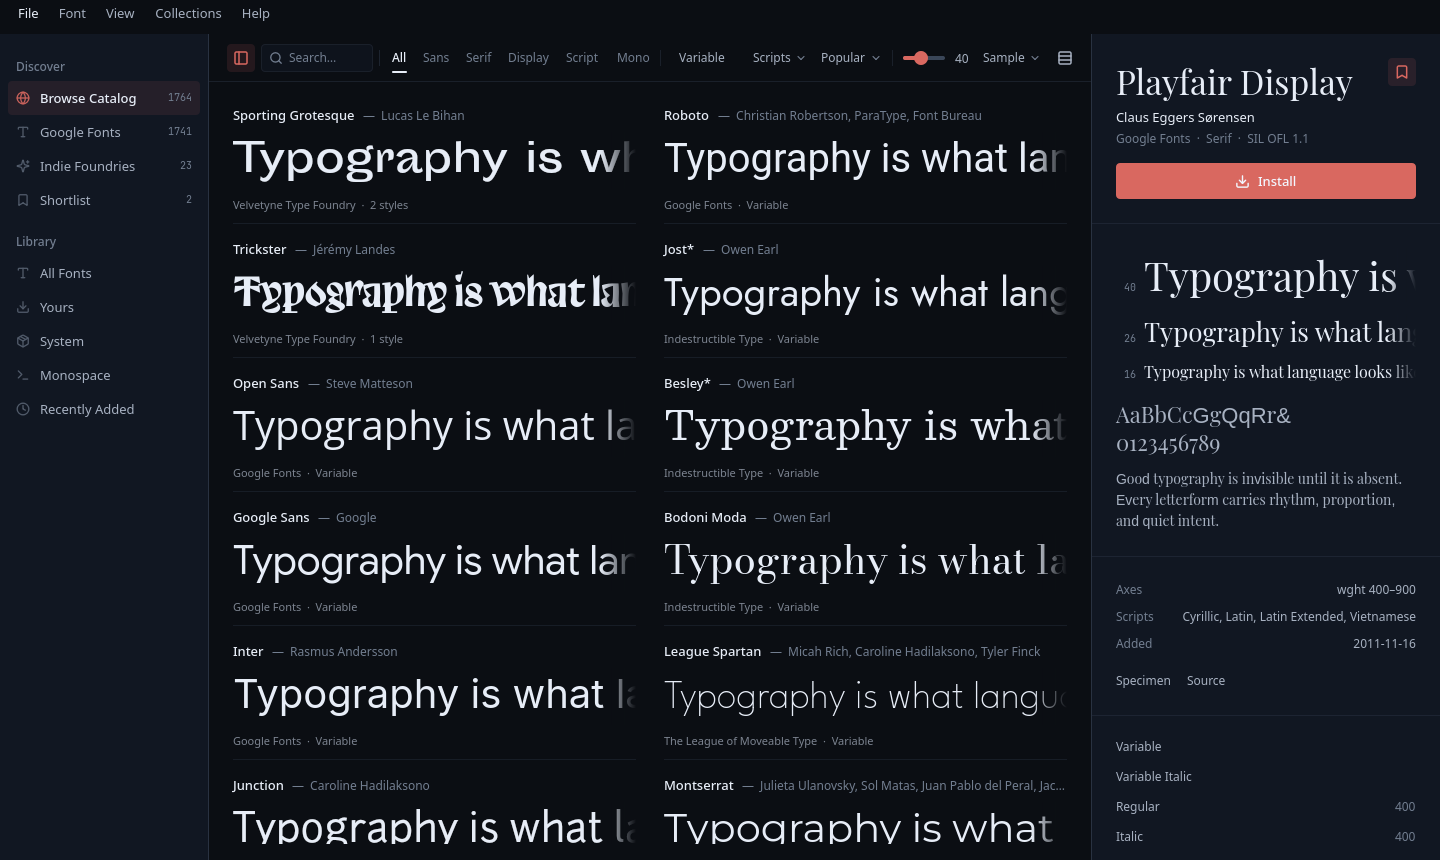
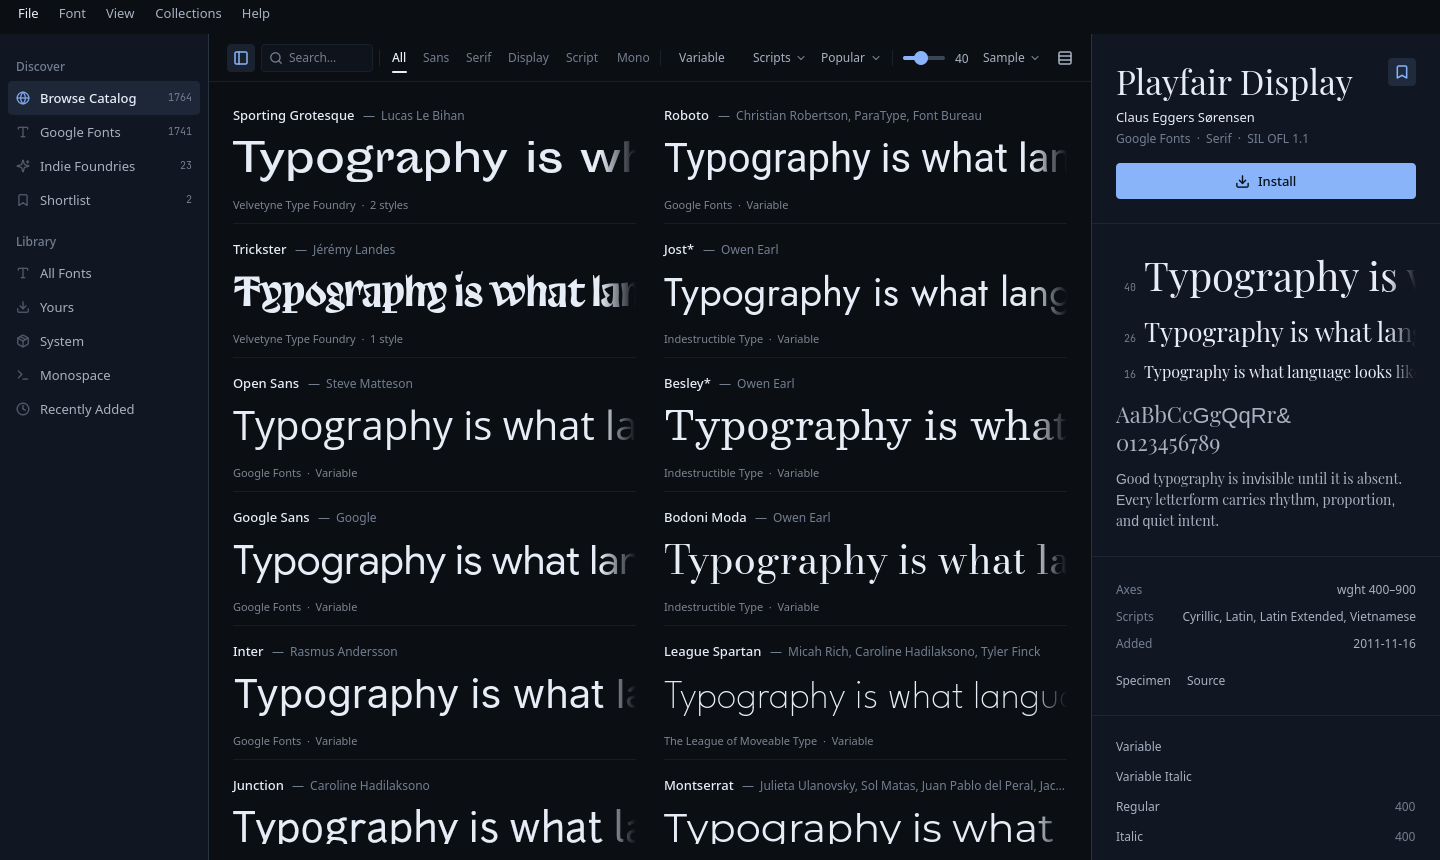
Move attribution to bottom of README and capture Catppuccin screenshot

Changed region(s): [[0.75, 0.1814, 1.0, 0.2419], [0.625, 0.0605, 0.6562, 0.0907], [0.0, 0.0907, 0.0312, 0.1209]]

diff --git a/tests/omatype_tests.cpp b/tests/omatype_tests.cpp
@@ -151,6 +151,8 @@ private slots:
             catalog.toggleShortlist(QStringLiteral("playfair-display"));
             if (auto *win = qobject_cast<QQuickWindow *>(engine.rootObjects().first())) {
                 if (win->activeFocusItem()) win->activeFocusItem()->setFocus(false);
+                // Move virtual pointer off (0,0) so the File menu isn't hovered in captures.
+                QTest::mouseMove(win, QPoint(720, 430));
                 // Give all visible cards (Google + indie foundries) time to finish loading.
                 QTest::qWait(5000);
                 win->grabWindow().save(shotPath);

diff --git a/src/theme.cpp b/src/theme.cpp
@@ -24,6 +24,8 @@ const QString kLightSelection = QStringLiteral("#2077b2");
 const QString kDefaultAccent = QStringLiteral("#5584aa");
 
 QString currentDir() {
+    const QString overrideDir = qEnvironmentVariable("OMATYPE_THEME_DIR");
+    if (!overrideDir.isEmpty()) return overrideDir;
     return QDir::homePath() + QStringLiteral("/.local/state/omarchy/current");
 }
 

diff --git a/README.md b/README.md
@@ -2,8 +2,6 @@
 
 An open-source font browser and manager for Omarchy — bringing an Adobe Fonts-style discovery and one-click installation workflow to Linux design tools like FigCraft and ArtCraft.
 
-> **Attribution:** Omatype is forked from [OmaFont](https://github.com/28allday/omafont-app), originally created by **Gavin Nugent** under the MIT License. All original copyright notices and attribution are preserved in [LICENSE](LICENSE).
-
 Browse open-source type catalogs (Google Fonts and curated open-source foundries) with live previews, designer attribution, shortlisting, weight management, and one-click installation without juggling zip files — alongside full local font management, deactivation, collections, and specimen views.
 
 ![Omatype Discover view: open-source font catalog with live specimens, designer attribution, shortlisting, and one-click install](docs/discover.png)
@@ -12,7 +10,7 @@ Browse open-source type catalogs (Google Fonts and curated open-source foundries
 
 Omatype brings an **Adobe Fonts-style discovery experience** to Linux and Omarchy — no zip files, no manual extracting:
 
-- **Google Fonts (1,950+ families)** indexed live with 24-hour local caching, plus **30 curated indie open-source typefaces** from **Velvetyne Type Foundry**, **Indestructible Type**, **The League of Moveable Type**, **Vercel (Geist)**, **GitHub Next (Monaspace)**, **Nerd Fonts**, and independent designers.
+- **Google Fonts (1,740+ families)** indexed live with 24-hour local caching, plus **23 curated indie open-source typefaces** from **Velvetyne Type Foundry**, **Indestructible Type**, **The League of Moveable Type**, **Vercel (Geist)**, **GitHub Next (Monaspace)**, **Nerd Fonts**, and independent designers.
 - **Instant live previews** — streams tiny 3–12 KB subsetted TrueType previews on demand and caches them in `~/.cache/omatype/previews/` so scrolling through thousands of typefaces stays fast and responsive.
 - **Type-first browsing** — custom editable sample text with typographic presets (*Sentence*, *Editorial*, *Paragraph*, *Figures*, *Alphabet*), adjustable preview size, grid or full-width waterfall rows, and faceted filters for classification, variable fonts, writing systems, and sort order.
 - **Designer attribution & provenance** — every detail view credits the type designer(s), foundry/source, license (SIL OFL 1.1 / Apache 2.0), variable axes, scripts, and links to the upstream specimen and repository.
@@ -264,6 +262,10 @@ portal for the file choosers. All of these are on every Omarchy install.
 
 Nothing outside your home folder is touched, and no password is needed for
 anything but installing the app itself.
+
+## Attribution
+
+Omatype is forked from [OmaFont](https://github.com/28allday/omafont-app), originally created by **Gavin Nugent** under the MIT License. All original copyright notices and attribution are preserved in [LICENSE](LICENSE).
 
 ## Licence
 
